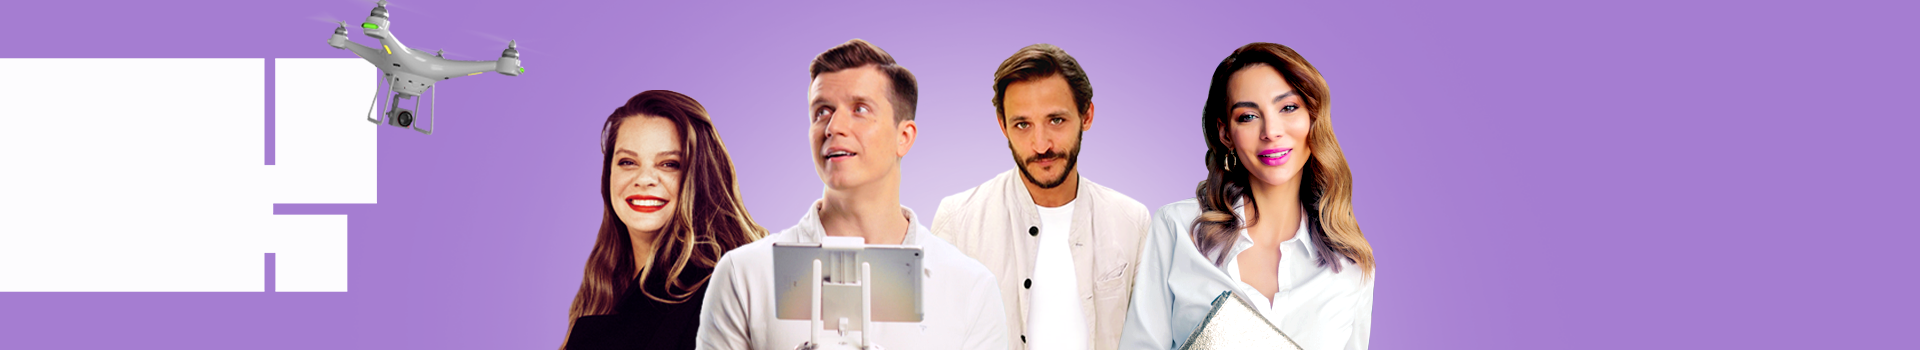
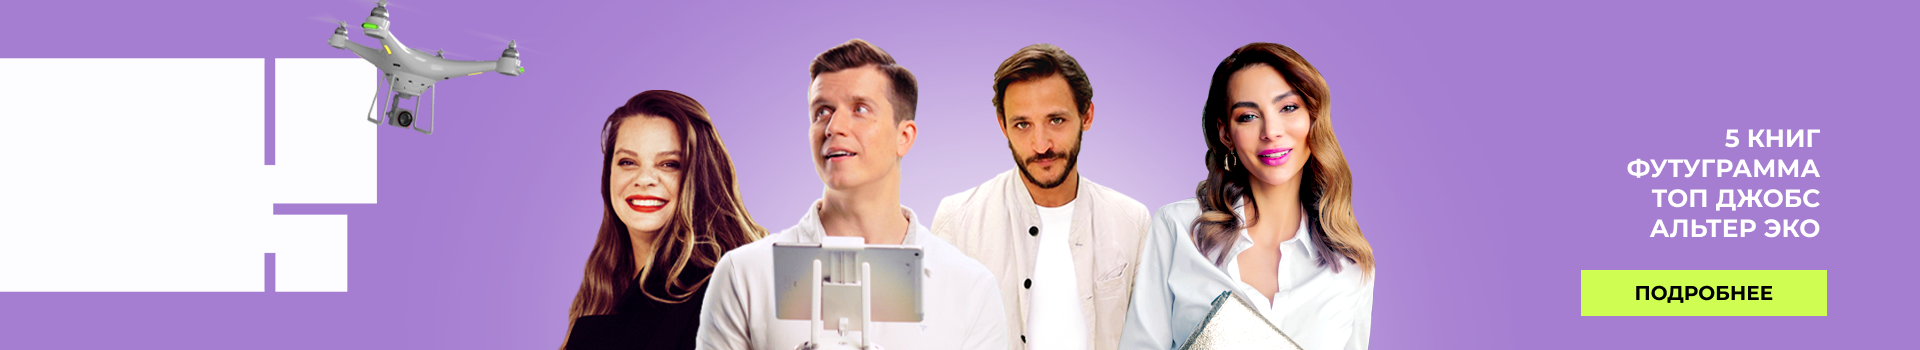
Fixbugs for home page

diff --git a/index.html b/index.html
@@ -61,7 +61,7 @@
         <section class="home-swiper position-relative">
             <div class="swiper-wrapper">
                 <!-- Slides -->
-                <div id="slide-1" class="swiper-slide swiper-slide-bgimg" style="background-image: url('assets/public/img/swiper1.png');">
+                <div id="slide-1-1" class="slide-type-1 swiper-slide swiper-slide-bgimg" style="background-image: url('assets/public/img/swiper1.png');">
                     <div class="container">
                         <div class="swiper-slide-wrap position-relative">
                             <div class="___text">
@@ -77,8 +77,59 @@
                             <a href="" class="text-uppercase text-center text-decoration-none ___link">Где смотреть?</a>
                         </div>
                     </div>
-                </div><!-- /.swiper-slide-1 -->
-                <div id="slide-2" class="swiper-slide">
+                </div><!-- /.swiper-slide-1-1 -->
+                <div id="slide-1-2" class="slide-type-1 swiper-slide swiper-slide-bgimg" style="background-image: url('assets/public/img/swiper1.png');">
+                    <div class="container">
+                        <div class="swiper-slide-wrap position-relative">
+                            <div class="___text">
+                                <div class="___title">
+                                    <h3 class="text-uppercase">5 книг</h3>
+                                    <h6 class="text-uppercase">C Верой полозковой</h6>
+                                    <p>Известные читатели о любимых книгах</p>
+                                </div>
+                                <div class="___more text-uppercase text-center">
+                                    Смотри по субботам в 21:00
+                                </div>
+                            </div>
+                            <a href="" class="text-uppercase text-center text-decoration-none ___link">Где смотреть?</a>
+                        </div>
+                    </div>
+                </div><!-- /.swiper-slide-1-2 -->
+                <div id="slide-1-3" class="slide-type-1 swiper-slide swiper-slide-bgimg" style="background-image: url('assets/public/img/swiper1.png');">
+                    <div class="container">
+                        <div class="swiper-slide-wrap position-relative">
+                            <div class="___text">
+                                <div class="___title">
+                                    <h3 class="text-uppercase">5 книг</h3>
+                                    <h6 class="text-uppercase">C Верой полозковой</h6>
+                                    <p>Известные читатели о любимых книгах</p>
+                                </div>
+                                <div class="___more text-uppercase text-center">
+                                    Смотри по субботам в 21:00
+                                </div>
+                            </div>
+                            <a href="" class="text-uppercase text-center text-decoration-none ___link">Где смотреть?</a>
+                        </div>
+                    </div>
+                </div><!-- /.swiper-slide-1-3 -->
+                <div id="slide-1-4" class="slide-type-1 swiper-slide swiper-slide-bgimg" style="background-image: url('assets/public/img/swiper1.png');">
+                    <div class="container">
+                        <div class="swiper-slide-wrap position-relative">
+                            <div class="___text">
+                                <div class="___title">
+                                    <h3 class="text-uppercase">5 книг</h3>
+                                    <h6 class="text-uppercase">C Верой полозковой</h6>
+                                    <p>Известные читатели о любимых книгах</p>
+                                </div>
+                                <div class="___more text-uppercase text-center">
+                                    Смотри по субботам в 21:00
+                                </div>
+                            </div>
+                            <a href="" class="text-uppercase text-center text-decoration-none ___link">Где смотреть?</a>
+                        </div>
+                    </div>
+                </div><!-- /.swiper-slide-1-4 -->
+                <div id="slide-2" class="slide-type-2 swiper-slide">
                     <div data-vbg="https://www.youtube.com/watch?v=G93gxnqEZTk"></div>
                     <div class="container">
                         <div class="swiper-slide-wrap position-relative">
@@ -90,18 +141,21 @@
                         </div>
                     </div>
                 </div><!-- /.swiper-slide-2 -->
-                <div id="slide-3" class="swiper-slide">
+                <div id="slide-3" class="slide-type-3 swiper-slide">
                     <div class="container">
-                        <div class="swiper-slide-wrap">
+                        <div class="swiper-slide-wrap" style="background: url('assets/public/img/slide-3.png')no-repeat center right;">
                             <div class="___title label-new radius-bottom-right text-uppercase">Поздравляем «Иностранку» со 100-летием</div>
                             <div class="___text">Ровно 100 лет назад Неофилологическая библиотека, будущая «Иностранка», открыла двери для своих первых читателей. За 100 лет она выросла из книжной коллекции основательницы Маргариты Рудомино до места, где хранится 4,5 миллиона изданий.</div>
                             <a href="" class="___link text-uppercase text-decoration-none text-center">Подробнее</a>
                         </div>
                     </div>
                 </div><!-- /.swiper-slide-3 -->
-                <div id="slide-4" class="swiper-slide">
-                    <div class="container">
+                <div id="slide-4" class="slide-type-4 swiper-slide">
+                    <div class="container position">
                         <div class="swiper-slide-wrap d-flex justify-content-center justify-content-md-end">
+                            <div class="swiper-slide-video position-absolute">
+                                <div data-vbg="https://www.youtube.com/watch?v=G93gxnqEZTk"></div>
+                            </div>
                             <div class="___text text-uppercase d-flex justify-content-center justify-content-md-end flex-column">
                                 <div class="___title radius-bottom-right">
                                     <p>Новый выпуск</p>
@@ -116,7 +170,7 @@
                         </div>
                     </div>
                 </div><!-- /.swiper-slide-4 -->
-                <div id="slide-5" class="swiper-slide">
+                <div id="slide-5" class="slide-type-5 swiper-slide">
                     <div class="container">
                         <div class="swiper-slide-wrap d-flex align-items-center">
                             <div class="row">
@@ -154,6 +208,8 @@
                         </div>
                     </div>
                 </div><!-- /.swiper-slide-5 -->
+                <a href="author-list.html" id="slide-6" class="slide-type-6 swiper-slide swiper-slide-bgimg" style="background-image: url('assets/public/img/swiper1.png');">
+                </a><!-- /.swiper-slide-6 -->
             </div>
 
             <div class="swiper-controls">
@@ -280,7 +336,7 @@
                         <a href="" class="home-show-item">
                             <div class="home-show-item__video">
                                 <img src="https://kluch.tv/wp-content/uploads/2021/11/sl.jpg" alt="5 книг">
-                                <iframe allow="autoplay; mute" src="https://www.youtube.com/embed/CqAMIWO6FbY?loop=1&controls=0&disablekb=1&showinfo=0&autoplay=1&mute=1&playlist=CqAMIWO6FbY" allowfullscreen frameborder="0"></iframe>
+                                <iframe allow="autoplay; mute" src="https://www.youtube.com/embed/CqAMIWO6FbY?loop=1&controls=0&disablekb=1&showinfo=0&autoplay=1&mute=1&playlist=CqAMIWO6FbY" allowfullscreen></iframe>
                             </div>
                             <div class="home-show-item__title text-uppercase">
                                 Технологии будущего россии
@@ -351,19 +407,9 @@
             </div>
         </section><!-- /.home-show -->
 
-        <section class="home-banner d-flex align-items-center" style="background-image: url('assets/public/img/banner.png');">
-            <div class="container">
-                <div class="d-flex justify-content-end">
-                    <div class="home-banner-text">
-                        <p>5 книг</p>
-                        <p>футуграмма</p>
-                        <p>Топ джобс</p>
-                        <p>альтер эко</p>
-                        <a href="" class="text-uppercase">подробнее</a>
-                    </div>
-                </div>
-            </div>
-        </section><!-- /.home-banner -->
+        <a href="ether.html" class="home-banner">
+            <img src="assets/public/img/banner.png" alt="" class="w-100">
+        </a><!-- /.home-banner -->
 
         <footer class="footer">
             <div class="container">

diff --git a/assets/src/components/swiper/custom-swiper.scss b/assets/src/components/swiper/custom-swiper.scss
@@ -27,10 +27,14 @@
             &-next {
                 transform: rotate(180deg);
             }
+
+            &-wrap {
+                height: 0;
+            }
         }
     }
 
-    #slide-1, #slide-2, #slide-3, #slide-4 {
+    .slide-type-1, .slide-type-2, .slide-type-3, .slide-type-4 {
         .___link {
             position: absolute;
             font-size: 28px;
@@ -66,7 +70,7 @@
         }
     }
 
-    #slide-1 {
+    .slide-type-1 {
         .___text {
             top: 115px;
             left: 100px;
@@ -133,7 +137,7 @@
         }
     }
 
-    #slide-2 {
+    .slide-type-2 {
         .___text {
             position: absolute;
             padding: 75px;
@@ -173,13 +177,12 @@
         }
     }
 
-    #slide-3 {
+    .slide-type-3 {
         background: var(--grey);
 
         .swiper-slide-wrap {
             min-height: calc(var(--swiper-height) - 140px);
             top: 70px;
-            background: url(../img/slide-3.png)no-repeat center right;
             position: relative;
 
             @include media-breakpoint-down(lg) {
@@ -272,13 +275,12 @@
         }
     }
 
-    #slide-4 {
+    .slide-type-4 {
         background: var(--orange);
 
         .swiper-slide-wrap {
             min-height: calc(var(--swiper-height) - 140px);
             top: 70px;
-            background: url('../img/slide-4.png')no-repeat center left;
             position: relative;
 
             @include media-breakpoint-down(md) {
@@ -286,9 +288,39 @@
             }
         }
 
+        .swiper-slide-video {
+            left: 0;
+            height: 100%;
+            width: 57%;
+            top: 0;
+            z-index: 0;
+            padding: 0 5px;
+
+            @include media-breakpoint-down(md) {
+                width: 100%;
+            }
+
+            &:after {
+                position: absolute;
+                content: "";
+                background-image: url("../img/video-mask.png");
+                background-position: left top;
+                background-repeat: no-repeat;
+                background-size: cover;
+                z-index: 10;
+                width: 100%;
+                height: 101%;
+
+                @include media-breakpoint-down(md) {
+                    background-image: none;
+                }
+            }
+        }
+
         .___text {
             padding: 0 85px 0 0;
             width: 55%;
+            z-index: 1;
 
             @include media-breakpoint-down(md) {
                 padding: 0 60px;
@@ -372,7 +404,7 @@
         }
     }
 
-    #slide-5 {
+    .slide-type-5 {
         background: var(--white);
 
         .swiper-slide-wrap {

diff --git a/assets/src/components/home/home.scss b/assets/src/components/home/home.scss
@@ -191,40 +191,3 @@
   }
 }
 
-.home-banner {
-  min-height: 350px;
-  background-position: center center;
-  background-repeat: no-repeat;
-  background-size: cover;
-
-  &-text {
-    p {
-      text-transform: uppercase;
-      font-size: 25px;
-      color: var(--white);
-      line-height: 1;
-      margin: 0 0 10px 0;
-      font-weight: 700;
-      text-align: right;
-    }
-
-    a {
-      color: var(--black);
-      font-size: 20px;
-      line-height: 1;
-      text-decoration: none;
-      padding: 0.6em 2.6em;
-      background: var(--yelloygreen);
-      border: 1px solid var(--yelloygreen);
-      font-weight: 700;
-      margin: 25px 0 0 0;
-      display: inline-block;
-
-      &:hover {
-        color: var(--black);
-        background: #cffd51ad;
-      }
-    }
-  }
-}
-

diff --git a/assets/src/components/header/header.scss b/assets/src/components/header/header.scss
@@ -66,6 +66,7 @@
         transition: transform 0.4s ease-out;
         transform: translateY(-100%);
         z-index: 5;
+        overflow-y: scroll;
 
         &.__show {
           transform: translateY(0);
